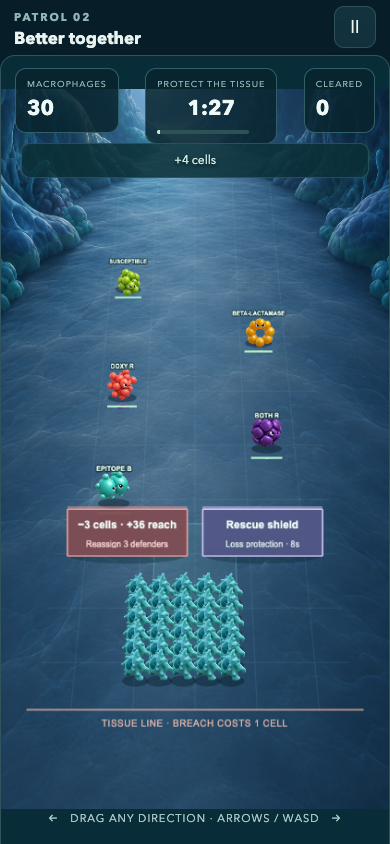
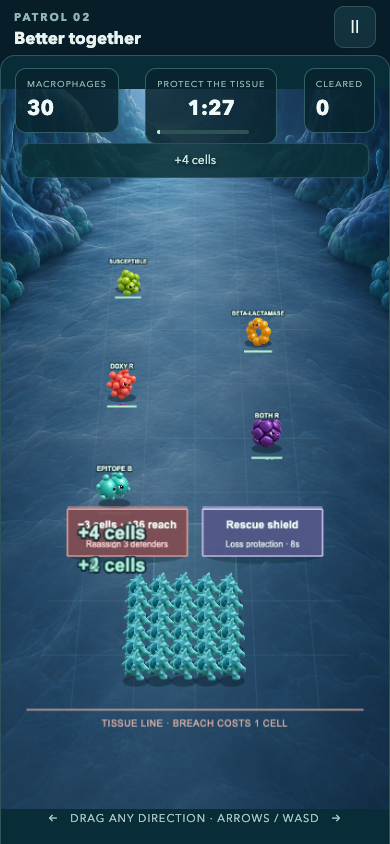
Preserve upgraded saves and add patrol feedback and personal best awards

diff --git a/src/main.ts b/src/main.ts
@@ -194,10 +194,10 @@ function equipAntibody(epitope: 'A' | 'B') { patrol!.antibody = { epitope, affin
 function pause() { if (!scene || !patrol || patrol.phase !== 'playing' || document.querySelector('.modal-backdrop'))
     return; scene.paused = true; scene.cancelDrag(); modal(`<span class="eyebrow">TAKE A BREATHER</span><h2>Patrol paused</h2><p>Your team will wait here. Come back when you’re ready.</p><button id="resume" class="primary">Resume patrol</button><button id="restart" class="secondary">Restart level</button><button id="leave" class="secondary">Return to map</button>`, { resume: () => { closeModal(); scene!.paused = false; }, restart: () => { stopGame(); start(selected); }, leave: () => { stopGame(); page = 'patrol'; render(); } }); }
 function stopGame() { closeModal(); scene?.sound.stopAll(); game?.destroy(true); game = null; scene = null; patrol = null; }
-function finish(p: Patrol) { const won = p.phase === 'victory'; if (won) {
-    completeLevel(save, selected, p.squad, p.learning);
+function finish(p: Patrol) { const won = p.phase === 'victory'; const newBest = won && p.score > (save.bestScores[selected] ?? 0); if (won) {
+    completeLevel(save, selected, p.squad, p.learning, p.score);
     persist();
-} const id = selected; modal(`${sprite(won ? 11 : 1, 'modal-art', won ? 'Immune team' : 'Macrophage')}<span class="eyebrow">${won ? 'TISSUE PROTECTED' : 'A CHANCE TO REGROUP'}</span><h2>${won ? 'Tiny team. Mission complete.' : 'Let’s try another approach.'}</h2>${won ? `<div class="stars">${'★'.repeat(save.stars[id])}</div>` : ''}<p>${won ? LEVELS[id - 1].feedback : 'Keep bacteria inside your contact zone and recruit at gates. Breaches cost a defender; medicine compatibility follows the lab report.'}</p><div class="result-stats"><div><strong>${p.kills}</strong><small>cleared</small></div><div><strong>${p.squad}</strong><small>defenders</small></div><div><strong>${p.score}</strong><small>score</small></div></div><button id="next" class="primary">${won && id < 10 ? 'Next patrol →' : 'Replay patrol'}</button><button id="result-map" class="secondary">Back to the trail</button>`, { next: () => { stopGame(); if (won && id < 10) {
+} const id = selected; modal(`${sprite(won ? 11 : 1, 'modal-art', won ? 'Immune team' : 'Macrophage')}<span class="eyebrow">${won ? 'TISSUE PROTECTED' : 'A CHANCE TO REGROUP'}</span><h2>${won ? 'Tiny team. Mission complete.' : 'Let’s try another approach.'}</h2>${won ? `<div class="stars">${'★'.repeat(save.stars[id])}</div>` : ''}<p>${won ? LEVELS[id - 1].feedback : 'Keep bacteria inside your contact zone and recruit at gates. Breaches cost a defender; medicine compatibility follows the lab report.'}</p>${won ? `<div class="patrol-awards">${newBest ? '<span>✧ New personal best</span>' : ''}${p.casualties === 0 ? '<span>✦ Flawless defense</span>' : ''}</div>` : ''}<div class="result-stats"><div><strong>${p.kills}</strong><small>cleared</small></div><div><strong>${p.squad}</strong><small>defenders</small></div><div><strong>${p.score}</strong><small>score</small></div></div><button id="next" class="primary">${won && id < 10 ? 'Next patrol →' : 'Replay patrol'}</button><button id="result-map" class="secondary">Back to the trail</button>`, { next: () => { stopGame(); if (won && id < 10) {
         selected = id + 1;
         page = 'patrol';
         render();

diff --git a/src/save.ts b/src/save.ts
@@ -5,6 +5,7 @@ export interface Save {
     completed: number[];
     stars: Record<string, number>;
     credits: number;
+    bestScores: Record<string, number>;
     reinforcement: number;
     muted: boolean;
     volume: number;
@@ -13,13 +14,15 @@ export interface Save {
     antibody: AntibodyProfile;
     checks: Partial<Learning>;
 }
-export const freshSave = (): Save => ({ version: RULES_VERSION, completed: [], stars: {}, credits: 0, reinforcement: 0, muted: false, volume: .25, reducedMotion: false, tutorial: false, antibody: { epitope: 'A', affinity: .45, effector: 'opsonization' }, checks: {} });
+export const freshSave = (): Save => ({ version: RULES_VERSION, completed: [], stars: {}, credits: 0, bestScores: {}, reinforcement: 0, muted: false, volume: .25, reducedMotion: false, tutorial: false, antibody: { epitope: 'A', affinity: .45, effector: 'opsonization' }, checks: {} });
 export function parseSave(raw: string | null): Save { try {
     const v = JSON.parse(raw ?? 'null');
-    if (!v || v.version !== RULES_VERSION)
+    // Version 2 changes encounter rules, not the persisted progression schema.
+    if (!v || ![1, RULES_VERSION].includes(v.version))
         return freshSave();
     const d = freshSave();
     d.completed = Array.isArray(v.completed) ? [...new Set<number>(v.completed.filter((x: unknown) => Number.isInteger(x) && Number(x) >= 1 && Number(x) <= 10))] : [];
+    d.bestScores = Object.fromEntries(Object.entries(v.bestScores ?? {}).filter(([key, value]) => Number.isInteger(Number(key)) && Number(key)>=1 && Number(key)<=10 && Number.isInteger(value) && Number(value)>=0 && Number(value)<=100000).map(([key,value])=>[key,Number(value)]));
     d.credits = Number.isFinite(v.credits) ? Math.max(0, Math.min(10000, v.credits)) : 0;
     d.reinforcement = Math.max(0, Math.min(6, Number(v.reinforcement) || 0));
     d.muted = v.muted === true;
@@ -51,7 +54,7 @@ catch {
     return false;
 } }
 export function isUnlocked(save: Save, level: number) { return level === 1 || save.completed.includes(level - 1); }
-export function completeLevel(save: Save, level: number, squad: number, checks: Partial<Learning>) { const first = !save.completed.includes(level); if (first) {
+export function completeLevel(save: Save, level: number, squad: number, checks: Partial<Learning>, score = 0) { save.bestScores[level] = Math.max(save.bestScores[level] ?? 0, Number.isFinite(score) ? Math.max(0, Math.floor(score)) : 0); const first = !save.completed.includes(level); if (first) {
     save.completed.push(level);
     save.credits += 30;
 } save.stars[level] = Math.max(save.stars[level] ?? 0, squad >= 12 ? 3 : squad >= 6 ? 2 : 1); for (const k of Object.keys(checks) as (keyof Learning)[])

diff --git a/tests/feel.test.ts b/tests/feel.test.ts
@@ -1,3 +1,4 @@
+import { parseSave, freshSave, completeLevel } from '../src/save';
 import { describe, expect, it } from 'vitest';
 import { BALANCE, Patrol, type Gate } from '../src/simulation';
 
@@ -148,5 +149,40 @@ describe('feedback and terminal outcomes', () => {
         const p=new Patrol(1); const before=JSON.stringify(p);
         p.step(NaN); p.step(Infinity); p.step(0);
         expect(JSON.stringify(p)).toBe(before);
+    });
+});
+
+
+describe('rules upgrade save migration', () => {
+    it('retains earned progress, resources and preferences from version 1', () => {
+        const save=parseSave(JSON.stringify({version:1,completed:[1,2],credits:60,stars:{1:3,2:2},reinforcement:1,muted:true,volume:.1,reducedMotion:true,tutorial:true,antibody:{epitope:'A',affinity:.9,effector:'opsonization'},checks:{affinity:true}}));
+        expect(save.version).toBe(2);
+        expect(save.completed).toEqual([1,2]);
+        expect(save.credits).toBe(60);
+        expect(save.stars).toEqual({1:3,2:2});
+        expect(save.reinforcement).toBe(1);
+        expect(save.muted && save.reducedMotion && save.tutorial && save.checks.affinity).toBe(true);
+        expect(save.antibody.affinity).toBe(.9);
+    });
+});
+
+describe('patrol recognition', () => {
+    it('records actual casualties without penalizing strategic reassignment or shielded contact', () => {
+        const p=new Patrol(1);
+        p.applyGate({id:1,y:500,used:false,left:{id:'risk',label:'Trade',detail:'Trade',kind:'risk',cost:3,value:36}},'left');
+        expect(p.casualties).toBe(0);
+        p.shieldRemaining=8;p.lose('shielded');
+        expect(p.casualties).toBe(0);
+        p.shieldRemaining=0;p.lose('contact');p.lose('invulnerable');
+        expect(p.casualties).toBe(1);
+    });
+    it('retains the personal best while replay credits remain one-time', () => {
+        const save=freshSave();
+        completeLevel(save,1,12,{},500);
+        completeLevel(save,1,12,{},300);
+        expect(save.bestScores[1]).toBe(500);
+        expect(save.credits).toBe(30);
+        completeLevel(save,1,12,{},650);
+        expect(parseSave(JSON.stringify(save)).bestScores[1]).toBe(650);
     });
 });

diff --git a/src/game.ts b/src/game.ts
@@ -125,12 +125,25 @@ export class PatrolScene extends Phaser.Scene {
             this.squadHitUntil = this.time.now + 220;
             if (!this.reducedMotion) this.cameras.main.shake(90, .0018);
         }
-        if (event.type === 'gate' || event.type === 'recruit') this.soundCue('recruit');
+        if (event.type === 'gate') {
+            this.soundCue('recruit');
+            const p=this.patrol, q=project(p.x,p.y);
+            const message=event.label ?? 'Gate activated';
+            this.floatFeedback(message,q.x,q.y-85,0xd8fff0);
+        }
+        if (event.type === 'recruit' || (event.type === 'loss' && event.amount)) {
+            const q=project(this.patrol.x,this.patrol.y);
+            this.floatFeedback((event.amount! > 0 ? '+' : '') + event.amount + ' cells',q.x,q.y-50,event.amount! > 0 ? 0xb5ffe0 : 0xffb6aa);
+        }
         if (event.type === 'medicine') {
             const ring = this.add.ellipse(210, 380, 220, 380).setStrokeStyle(3, 0xdac7ff, .6).setDepth(4);
             this.tweens.add({ targets: ring, scale: 1.5, alpha: 0, duration: 450, onComplete: () => ring.destroy() });
         }
         if (!['hit', 'death', 'engulf', 'tag'].includes(event.type)) this.hooks.event(event.text);
+    }
+    floatFeedback(message: string, x: number, y: number, color: number) {
+        const text=this.add.text(Phaser.Math.Clamp(x,95,325),y,message,{fontFamily:'Arial',fontSize:message.length>18?'11px':'20px',fontStyle:'bold',color:'#'+color.toString(16),stroke:'#09242c',strokeThickness:4,align:'center',wordWrap:{width:180}}).setOrigin(.5).setDepth(1000);
+        this.tweens.add({targets:text,y:y-(this.reducedMotion?0:28),alpha:0,delay:600,duration:this.reducedMotion?1:500,onComplete:()=>text.destroy()});
     }
     dismissEnemy(id: number, v: EnemyView, defeated: boolean) {
         this.views.delete(id); v.health.setVisible(false); v.tag.setVisible(false);

diff --git a/src/simulation.ts b/src/simulation.ts
@@ -34,6 +34,7 @@ export interface Gate {
 export interface PatrolEvent {
     type: 'engulf' | 'loss' | 'gate' | 'medicine' | 'tag' | 'boss' | 'win' | 'hit' | 'death' | 'recruit';
     text: string;
+    label?: string;
     enemyId?: number;
     squad?: number;
     amount?: number;
@@ -59,6 +60,7 @@ export class Patrol {
     shieldRemaining = 0;
     squad = 12;
     kills = 0;
+    casualties = 0;
     score = 0;
     coverage = 52;
     enemies: Enemy[] = [];
@@ -89,6 +91,7 @@ export class Patrol {
     lose(reason: string) {
         if (this.protection > 0 || this.shieldRemaining > 0 || this.phase !== 'playing') return;
         this.squad = Math.max(0, this.squad - 1);
+        this.casualties++;
         this.protection = BALANCE.invulnerability;
         this.events.push({type:'loss',text:reason,x:this.x,y:this.y,squad:this.squad,amount:-1});
         if (this.squad === 0) this.phase = 'defeat';
@@ -108,7 +111,7 @@ export class Patrol {
         if (option.kind === 'coverage' || option.kind === 'risk') this.coverage = Math.min(115, this.coverage + option.value);
         if (option.kind === 'tempo') this.tempoRemaining = Math.max(this.tempoRemaining, option.value);
         if (option.kind === 'shield') this.shieldRemaining = Math.max(this.shieldRemaining, option.value);
-        this.events.push({type:'gate',text:option.detail,x:this.x,y:this.y,squad:this.squad});
+        this.events.push({type:'gate',text:option.detail,label:option.label,x:this.x,y:this.y,squad:this.squad});
         if (this.squad !== before) this.events.push({type:this.squad > before ? 'recruit' : 'loss',text:option.label,x:this.x,y:this.y,squad:this.squad,amount:this.squad-before});
         if (this.squad === 0) this.phase = 'defeat';
         return true;

diff --git a/src/style.css b/src/style.css
@@ -8,3 +8,5 @@
 .defender-preview{display:block;width:76px;height:76px;margin:0 auto 6px;background-image:url('/assets/defenders-v2.png');background-size:400% 300%}
 .defender-choices{display:grid;grid-template-columns:1fr 1fr;gap:10px}.defender-choices .choice{text-align:center}
 .ability-status{position:absolute;top:100px;left:12px;right:12px;text-align:center;color:#eedcff;font-size:12px;pointer-events:none}
+
+.patrol-awards{display:flex;flex-wrap:wrap;justify-content:center;gap:8px;margin:14px 0}.patrol-awards span{background:#224c45;color:#c4ffdf;border:1px solid #518d78;border-radius:20px;padding:8px 12px;font-size:12px}

diff --git a/STATUS.md b/STATUS.md
@@ -9,11 +9,18 @@
 - New presentation browser test passed; real 90-second play, all ten accelerated victories, save/settings, offline, touch and six-run stability repeated September 13.
 - Actual user's preview refreshed from stale offline cache and revised level-2 choice screen verified.
 
+## Added polish and upgrade safety
+- Floating gate/recruitment/casualty callouts; saved per-level personal bests and flawless-defense awards. Strategic cell reassignment does not count as a forced loss.
+- Version-1 saves migrate to rules version 2, retaining progression, stars, credits, preferences and learning flags. Verified in a production browser and through reload; see artifacts/save-upgrade-results.json.
+- The initial version bump briefly displayed an empty save before migration was added. After reconnecting, verified the final production script index-Pryq4p-P.js and the actual user UI retained level 1 complete, three stars and 30 credits through reload.
+- Preview servers survived a UI disconnect but returned empty responses. Confirmed live PIDs and empty HTTP replies, then restarted only those two servers with file-backed logs in /tmp/biology-preview-*.log.
+- Award screenshot uses a synthetic result fixture for layout verification; real victory evidence remains the full 90-second run and all-level sweep.
+
 ## Completed
 - Ten authored 90-second patrols, three defender roles, five tested bacterial phenotypes, two medicines, two theatrical bosses.
 - Phaser movement/engulfment/gates/casualties, campaign, earned unlocks, local saves, settings, field guide, B-cell selection and matching recall.
 - Original raster atlas/corridor/icon, local soft WAV cues; 86 Android and 8 iOS icon/splash outputs.
-- 52 rule/regression tests pass. TypeScript and final production build pass.
+- 55 rule/regression tests pass. TypeScript and final production build pass.
 - Real browser 90-second first-level run with actual mouse steering, victory, saved unlock, defeat/restart, settings persistence and learning corrections pass.
 - Final accelerated browser sweep wins all ten levels with real support-panel selections (`artifacts/final-sweep.json`). All reported browser page-error lists empty.
 - Relative touch, cancellation and no-jump restart pass. Six repeated game runs keep one scene, canvas and pointer listener.
@@ -31,7 +38,9 @@ The local Sites hosting skill and packaging helper also disappeared after the re
 
 ## Exact verification commands
 Use Node 24 / pnpm 11.19.0. On this host, Node is `/Users/henrywei/.cache/codex-runtimes/codex-primary-runtime/dependencies/node/bin/node`; add its containing directory to PATH.
-- `pnpm test` — 52 passed in three files, most recent run September 13.
+- `node scripts/presentation-test.mjs` — all nine presentation checks passed, including actual gate crossing and saved awards.
+- `node scripts/save-upgrade-test.mjs` — production save migration and reload passed.
+- `pnpm test` — 55 passed in three files, most recent run September 13.
 - `node node_modules/typescript/bin/tsc --pretty false` — passed.
 - `pnpm build` — production build passed, offline cache generated.
 - `pnpm native:sync` — both platforms synced successfully.

diff --git a/GAME_DESIGN.md b/GAME_DESIGN.md
@@ -51,3 +51,5 @@ Human learning study: recruit an age-appropriate small pilot with consent; ask f
 Every squad member has an individual rendered cell (1–30), with arriving recruitment and casualty transitions. Four gate pairs rotate: +4 cells / +18 reach; +6 cells / 12-second rapid response; −3 cells with +36 reach / 8-second rescue shielding; +8 cells / −2 cells with +28 reach. Shields prevent cell losses but do not cancel a boss breach. Ability timers are visible. These are arcade abstractions.
 
 Pre-rendered 3D-style assets use an elevated rear camera for defenders and approaching enemy views. Three defender rows and five enemy rows each have neutral, left, right and hit poses. Defeats squash/fade; recruited cells enter the formation. Enemy drift changes directional frames. This is a 2.5D Phaser scene, not a realtime skeletal 3D mesh. Illustrated choices clearly equip the selected lead class.
+
+Recruitment and gate effects have short floating callouts beside the squad. End-of-patrol awards recognize a new saved personal-best score and zero forced losses; deliberate gate reassignment does not invalidate flawless defense. These are arcade achievements, not biological outcomes. Version-1 progression migrates intact to version 2.

diff --git a/README.md b/README.md
@@ -53,3 +53,5 @@ Open `ios/App/App.xcodeproj` in Xcode for iOS. Both projects bundle game files l
 - `GAME_DESIGN.md`, `ASSET_MANIFEST.md`, `RELEASE.md`, `STATUS.md`: design, provenance, release and resume checkpoint.
 
 Based on the structure of [Phaser’s official Vite TypeScript starter](https://github.com/phaserjs/template-vite-ts); original template license retained. No starter telemetry, backend, ads, purchases, accounts or analytics. This is a game abstraction, not prescribing advice or clinically validated instruction. Human learning evaluation and qualified medical review remain outstanding.
+
+The revised presentation includes individually rendered squads, directional 3D-style cell frames, four rotating gate pairs, floating effect callouts, personal-best scores and flawless-defense awards. Existing version-1 saves migrate automatically. Additional checks: `node scripts/presentation-test.mjs` and `node scripts/save-upgrade-test.mjs`.

diff --git a/RELEASE.md b/RELEASE.md
@@ -7,7 +7,7 @@
 | Delivery | Evidence / result |
 |---|---|
 | Ten 90-second authored levels, two colony bosses | All ten won in final accelerated browser sweep with real support-panel inputs; first level also passed a real-time 90-second mouse-driven patrol |
-| Movement, engulfment, gates, casualties, restart | 52 automated tests; real relative drag, keyboard, pause, defeat/restart passed |
+| Movement, engulfment, gates, casualties, restart | 55 automated tests; real relative drag, keyboard, pause, defeat/restart passed |
 | Three defender roles and two medicines | Source-checked evidence register; antibody support visibly joins squad; no clinician validation claimed |
 | Susceptibility, antigen and maturation decisions | Wrong choices give corrective feedback and allow recovery; clone selection and later matching recall verified |
 | Saves and progression | Corrupt-save tests, earned unlock and settings reload passed |
